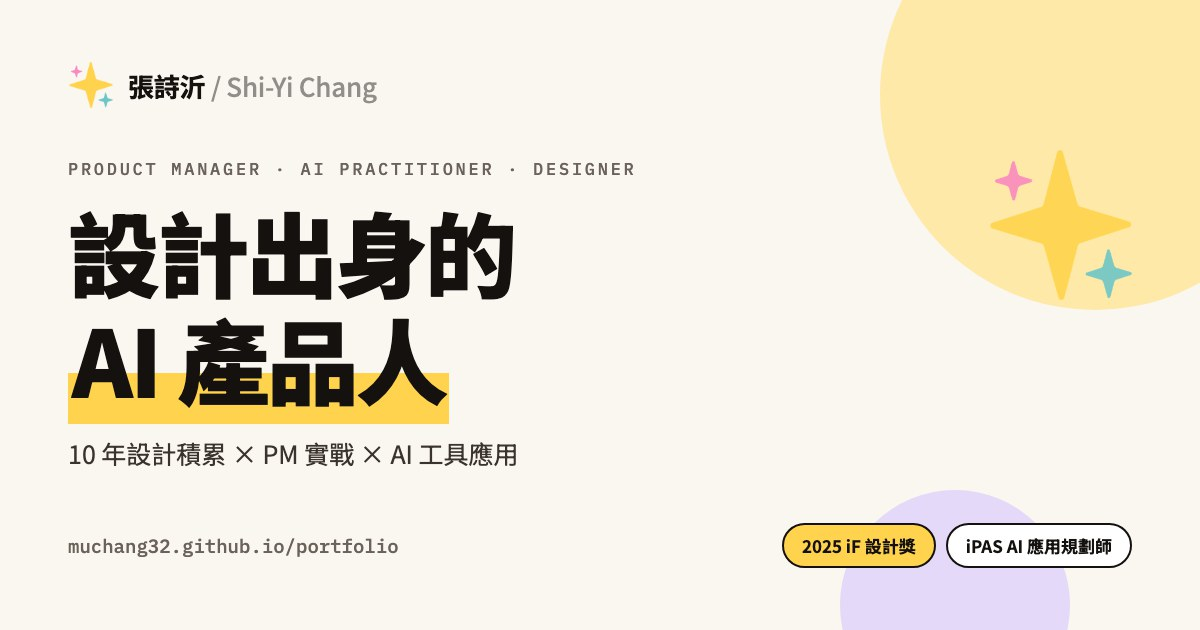
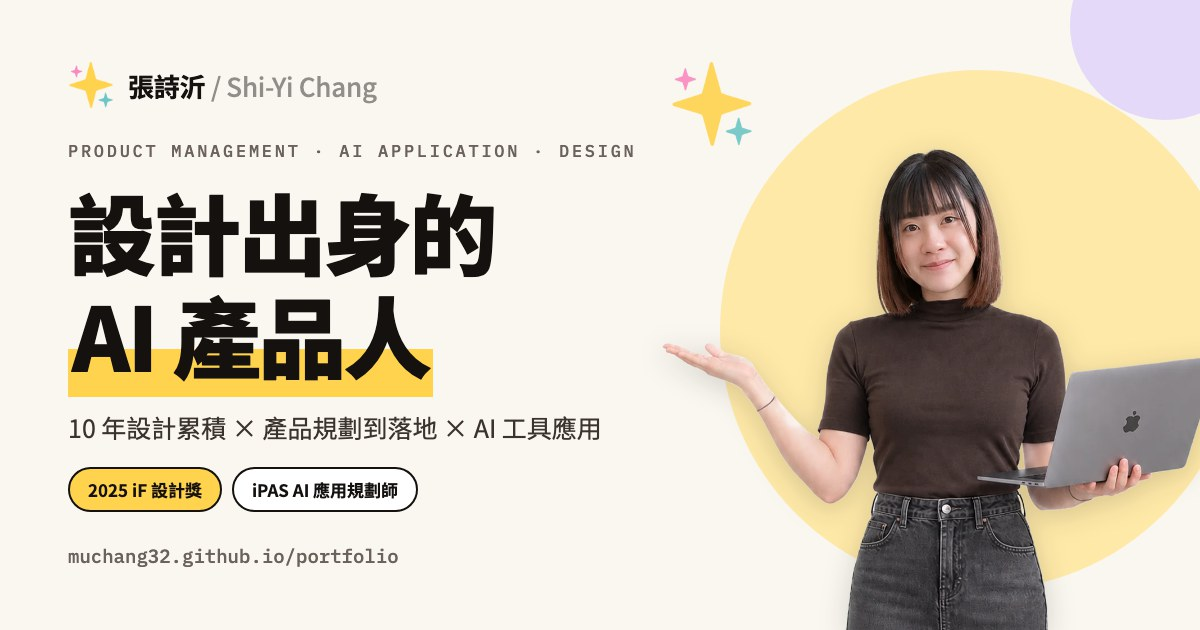
分享縮圖：換上現行文案並放入去背照
貼到 LinkedIn 精選區後才發現，分享縮圖還停在九月的版本：
眉標是舊的職稱寫法、副標還寫「積累」「PM 實戰」，而且沒有照片。
這張圖來自獨立的 og-card.html，首頁文案改了它不會跟著變。

換成與首頁一致的眉標與副標，右側放入首頁同一張去背照；
verify.py 新增一項比對，之後首頁改文案而縮圖沒跟上會被擋下。

diff --git a/build/og-card.html b/build/og-card.html
@@ -11,30 +11,32 @@ body{width:1200px;height:630px;background:#FAF7F0;font-family:"Noto Sans TC","Pi
 .name{font-size:26px;font-weight:700;letter-spacing:-.01em}
 .name span{opacity:.45;font-weight:500}
 .kicker{font-family:"IBM Plex Mono",monospace;font-size:17px;letter-spacing:.16em;color:#6B635B;margin-bottom:18px}
-h1{font-size:92px;font-weight:900;line-height:1.16;letter-spacing:-.03em}
+h1{font-size:88px;font-weight:900;line-height:1.16;letter-spacing:-.03em}
 h1 em{font-style:normal;background:linear-gradient(transparent 62%,#FFD34E 62%);padding:0 4px}
 .tag{margin-top:22px;font-size:25px;color:#3B342E;line-height:1.6}
 .foot{display:flex;align-items:center;justify-content:space-between}
 .url{font-family:"IBM Plex Mono",monospace;font-size:19px;color:#6B635B}
-.pills{display:flex;gap:10px}
+.pills{display:flex;gap:10px;margin-top:20px}
 .pill{border:2px solid #14110F;border-radius:999px;padding:8px 18px;font-size:17px;font-weight:700;background:#fff}
 .pill.y{background:#FFD34E}
 .blob{position:absolute;border-radius:50%;z-index:1}
-.b1{width:430px;height:430px;background:#FFE9A8;right:-110px;top:-120px}
-.b2{width:230px;height:230px;background:#CDBCFF;opacity:.5;right:130px;bottom:-90px}
+.b1{width:520px;height:520px;background:#FFE9A8;right:-40px;top:70px}
+.b2{width:190px;height:190px;background:#CDBCFF;opacity:.5;right:-60px;top:-70px}
 .star{position:absolute;z-index:1;opacity:.9}
+.me{position:absolute;z-index:1;right:-18px;bottom:0;width:556px;height:auto;filter:drop-shadow(0 6px 14px rgba(20,17,15,.18))}
 </style></head><body>
 <div class="blob b1"></div><div class="blob b2"></div>
-<img class="star" src="../assets/logo.png" style="width:150px;right:64px;top:150px">
+<img class="star" src="../assets/logo.png" style="width:84px;right:446px;top:62px">
+<img class="me" src="../assets/avatar.webp" alt="">
 <div class="pad">
   <div class="top"><img src="../assets/logo.png" alt=""><div class="name">張詩沂 <span>/ Shi-Yi Chang</span></div></div>
   <div>
-    <div class="kicker">PRODUCT MANAGER · AI PRACTITIONER · DESIGNER</div>
+    <div class="kicker">PRODUCT MANAGEMENT · AI APPLICATION · DESIGN</div>
     <h1>設計出身的<br><em>AI 產品人</em></h1>
-    <div class="tag">10 年設計積累 × PM 實戰 × AI 工具應用</div>
+    <div class="tag">10 年設計累積 × 產品規劃到落地 × AI 工具應用</div>
+    <div class="pills"><div class="pill y">2025 iF 設計獎</div><div class="pill">iPAS AI 應用規劃師</div></div>
   </div>
   <div class="foot">
     <div class="url">muchang32.github.io/portfolio</div>
-    <div class="pills"><div class="pill y">2025 iF 設計獎</div><div class="pill">iPAS AI 應用規劃師</div></div>
   </div>
 </div></body></html>

diff --git a/build/verify.py b/build/verify.py
@@ -320,7 +320,16 @@ _og_missing = [f for f in _PAGES[1:]
                    pathlib.Path(f).read_text(encoding='utf-8'),
                    'https://muchang32.github.io/portfolio/' + f)]
 C.append((f'九個內頁都有完整的連結預覽標記（缺：{_og_missing or "無"}）', not _og_missing))
-for desc, ok in C[-7:]:
+# ---- 分享縮圖：og-card.html 是另一份獨立的版型，首頁文案改了它不會自己跟上 ----
+_og = pathlib.Path('build/og-card.html').read_text(encoding='utf-8')
+C.append(('分享縮圖的文案與首頁同步，且放了去背照',
+          'PRODUCT MANAGEMENT · AI APPLICATION · DESIGN' in _og
+          and '10 年設計累積 × 產品規劃到落地 × AI 工具應用' in _og
+          and 'PM 實戰' not in _og and '積累' not in _og
+          and '../assets/avatar.webp' in _og
+          and pathlib.Path('assets/og-cover.jpg').stat().st_mtime
+              >= pathlib.Path('build/og-card.html').stat().st_mtime - 5))
+for desc, ok in C[-8:]:
     (fails if not ok else warns).append(desc) if not ok else None
 
 print(f'檢查 {len(C)} 項')
